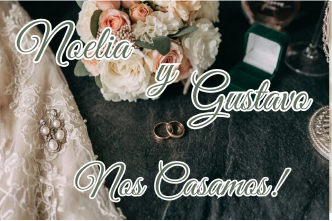
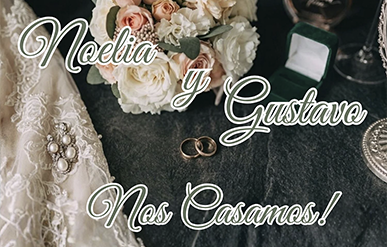
INIT COMMIT

diff --git a/index.html b/index.html
@@ -34,9 +34,9 @@
     <link rel="stylesheet" href="https://cdn.jsdelivr.net/npm/swiper@11/swiper-bundle.min.css">
     <link rel="stylesheet" href="https://cdnjs.cloudflare.com/ajax/libs/font-awesome/6.0.0-beta3/css/all.min.css">
     <link rel="stylesheet" href="https://cdn.jsdelivr.net/npm/@fancyapps/ui/dist/fancybox.css" />
-    <link rel="stylesheet" href="estilos/normalize.css?v40">
-    <link rel="stylesheet" href="estilos/styles.css?v40">
-    <link rel="stylesheet" href="estilos/mediaQueries.css?v40">
+    <link rel="stylesheet" href="estilos/normalize.css?v45">
+    <link rel="stylesheet" href="estilos/styles.css?v45">
+    <link rel="stylesheet" href="estilos/mediaQueries.css?v45">
     <link rel="stylesheet" href="https://unpkg.com/aos@2.3.1/dist/aos.css">
 </head>
 
@@ -751,7 +751,7 @@
     <script src="https://cdn.jsdelivr.net/npm/swiper@11/swiper-bundle.min.js"></script>
     <script src="https://cdn.jsdelivr.net/npm/@fancyapps/ui/dist/fancybox.umd.js"></script>
     <script src="https://unpkg.com/aos@2.3.1/dist/aos.js"></script>
-    <script src="javascript/script.js?v40"></script>
+    <script src="javascript/script.js?v45"></script>
 </body>
 
 </html>

diff --git a/cache.js b/cache.js
@@ -25,13 +25,13 @@ function cargarRecursos(recursos, version) {
 
 function forzarActualizacionCache() {
     var recursos = [
-        'estilos/normalize.css?v40',
-        'estilos/styles.css?v40',
-        'estilos/mediaQueries.css?v40',
-        'javascript/script.js?v40',
+        'estilos/normalize.css?v45',
+        'estilos/styles.css?v45',
+        'estilos/mediaQueries.css?v45',
+        'javascript/script.js?v45',
         // Add other URLs of your resources here
     ];
-    var version = 'v40'; // Use a static or manually managed version
+    var version = 'v45'; // Use a static or manually managed version
     cargarRecursos(recursos, version);
 }
 

diff --git a/service-worker.js b/service-worker.js
@@ -1,9 +1,9 @@
-const CACHE_NAME = 'cache-v40'; // Use a static or manually managed version
+const CACHE_NAME = 'cache-v45'; // Use a static or manually managed version
 const RESOURCES_TO_PRECACHE = [
-    'estilos/normalize.css?v40',
-    'estilos/styles.css?v40',
-    'estilos/mediaQueries.css?v40',
-    'javascript/script.js?v40',
+    'estilos/normalize.css?v45',
+    'estilos/styles.css?v45',
+    'estilos/mediaQueries.css?v45',
+    'javascript/script.js?v45',
     // Add more resources here if needed
 ];
 
